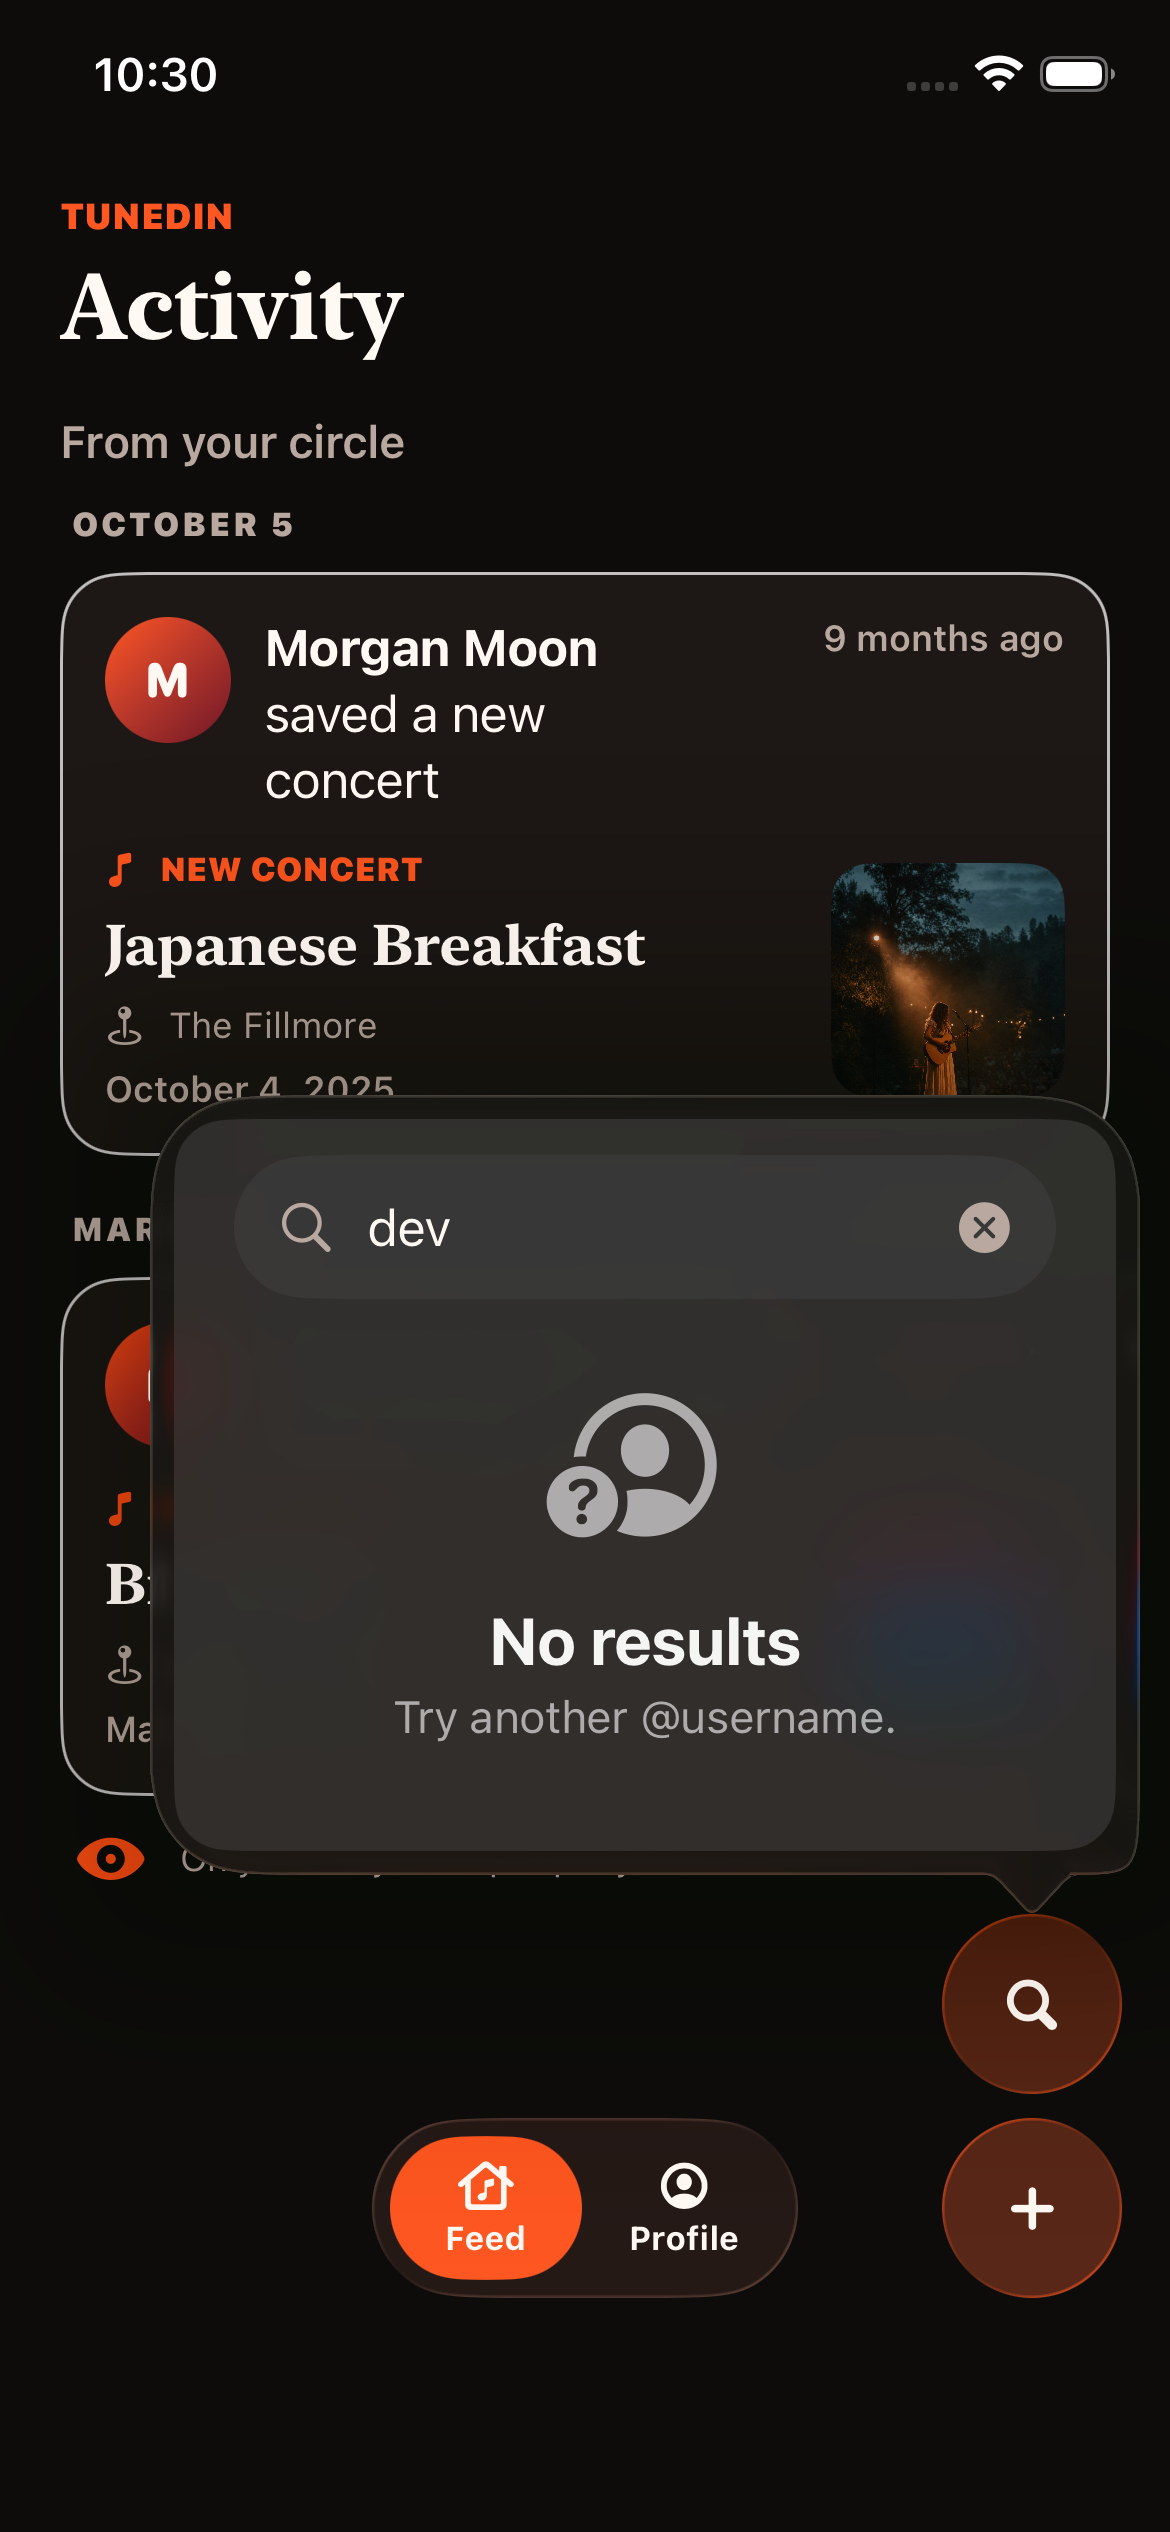
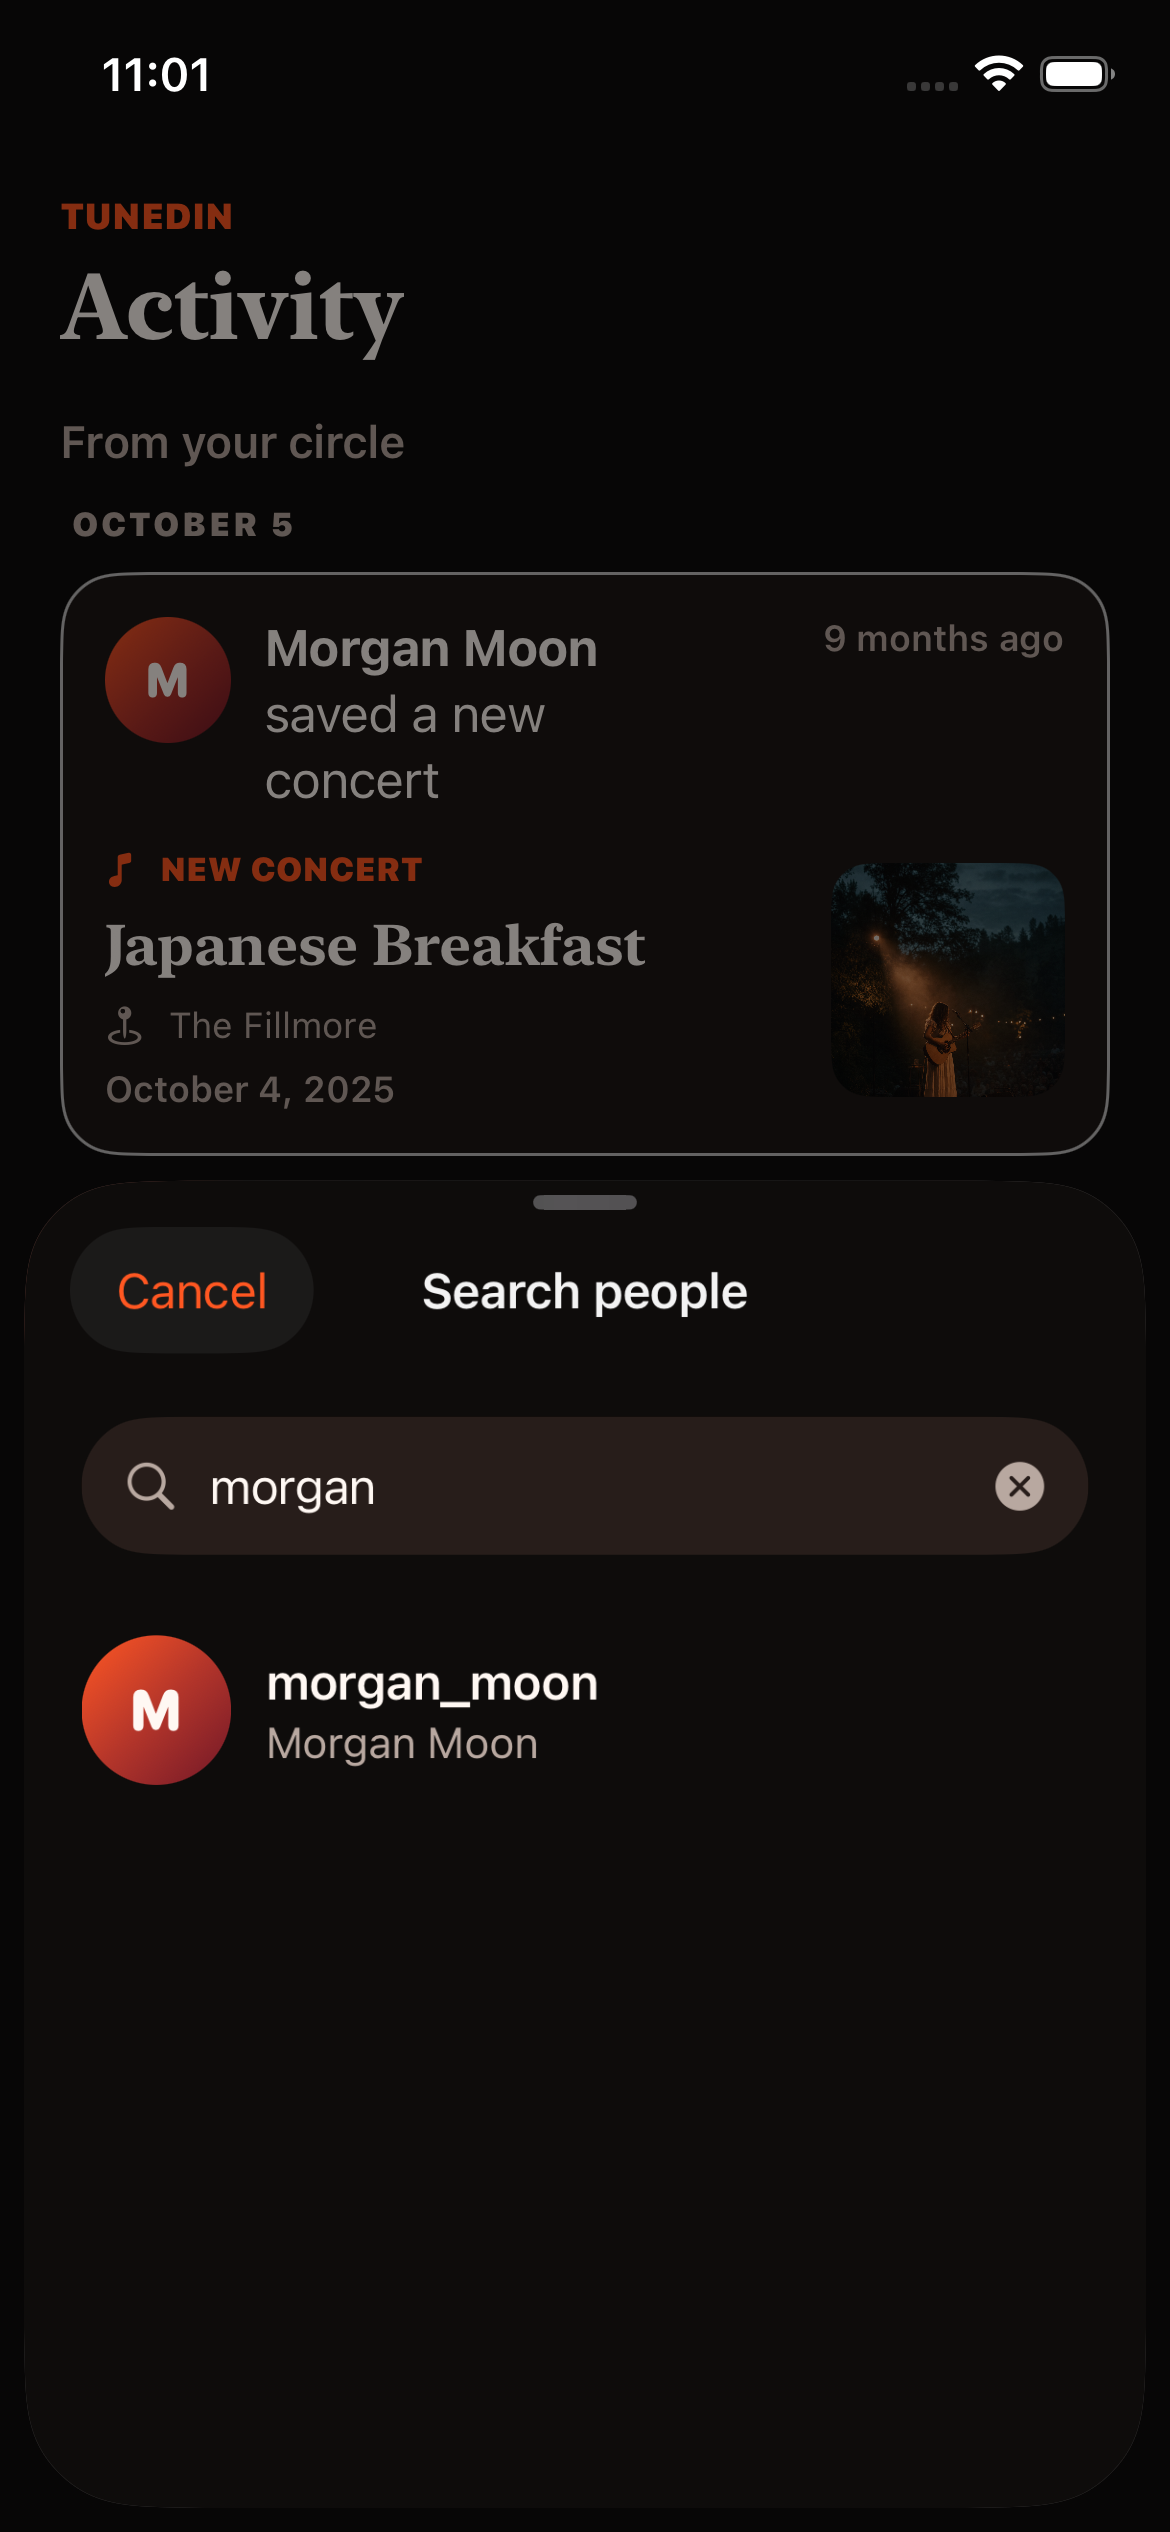
Present people search in a drawer

diff --git a/ios/tunedIn/Sources/Features/Profile/ProfileTabView.swift b/ios/tunedIn/Sources/Features/Profile/ProfileTabView.swift
@@ -25,74 +25,57 @@ struct MainTabView: View {
   @StateObject private var concertFloatingControls = ConcertFloatingControls()
 
   var body: some View {
-    GeometryReader { proxy in
-      ZStack {
-        selectedContent
-          .frame(maxWidth: .infinity, maxHeight: .infinity)
-          .environmentObject(concertFloatingControls)
-          .safeAreaInset(edge: .bottom, spacing: 0) {
-            TunedInPersistentControlRegion {
-              bottomControls
-                .padding(.horizontal, TunedInDesign.bottomControlHorizontalInset)
-                .padding(.top, 8)
-                .padding(.bottom, TunedInDesign.bottomControlInset)
-            }
-          }
-
-        Color.clear
-          .frame(width: 1, height: 1)
-          .popover(
-            isPresented: $isPresentingPeopleSearch,
-            attachmentAnchor: .point(.center),
-            arrowEdge: .bottom
-          ) {
-            peopleSearchPopover
-          }
-          .position(
-            x: proxy.size.width - (TunedInDesign.bottomControlHorizontalInset + 30),
-            y: proxy.size.height - (TunedInDesign.bottomControlInset + 128)
-          )
-      }
-    }
-    .tunedInEdgeSwipeBack(
-      isEnabled: concertFloatingControls.navigationContext != .none
-        && !concertFloatingControls.isInteractionLocked
-    ) {
-      concertFloatingControls.back(or: { activateTab(.profile) })
-    }
-    .fullScreenCover(
-      isPresented: $isPresentingConcertCreation,
-      onDismiss: { archiveRefreshToken += 1 },
-      content: { ConcertCreationView(concertRepository: concertRepository) }
-    )
-    .fullScreenCover(item: $presentedSearchedProfile) { searchedProfile in
-      NavigationStack {
-        PersonProfileView(
-          profile: searchedProfile,
-          currentUserID: profile.id,
-          currentUsername: profile.username ?? "",
-          socialRepository: socialRepository,
-          concertRepository: concertRepository,
-          onDismiss: { presentedSearchedProfile = nil }
-        )
-      }
+    selectedContent
+      .frame(maxWidth: .infinity, maxHeight: .infinity)
       .environmentObject(concertFloatingControls)
-      .tunedInKeyboardManaged()
-    }
-    .onChange(of: isPresentingPeopleSearch) { _, isPresented in
-      guard !isPresented, let pendingSearchedProfile else { return }
-      self.pendingSearchedProfile = nil
-      presentedSearchedProfile = pendingSearchedProfile
-    }
-    .onChange(of: concertFloatingControls.isShowingEditMenu) { _, isShowingEditMenu in
-      if !isShowingEditMenu {
-        isPresentingConcertEditMenu = false
+      .safeAreaInset(edge: .bottom, spacing: 0) {
+        TunedInPersistentControlRegion {
+          bottomControls
+            .padding(.horizontal, TunedInDesign.bottomControlHorizontalInset)
+            .padding(.top, 8)
+            .padding(.bottom, TunedInDesign.bottomControlInset)
+        }
       }
-    }
-    .tint(TunedInDesign.accent)
-    .task {
-      session.telemetry.captureAppBecameUsable(destination: "main_tabs")
-    }
+      .tunedInEdgeSwipeBack(
+        isEnabled: concertFloatingControls.navigationContext != .none
+          && !concertFloatingControls.isInteractionLocked
+      ) {
+        concertFloatingControls.back(or: { activateTab(.profile) })
+      }
+      .fullScreenCover(
+        isPresented: $isPresentingConcertCreation,
+        onDismiss: { archiveRefreshToken += 1 },
+        content: { ConcertCreationView(concertRepository: concertRepository) }
+      )
+      .sheet(
+        isPresented: $isPresentingPeopleSearch,
+        onDismiss: presentPendingSearchedProfile
+      ) {
+        peopleSearchDrawer
+      }
+      .fullScreenCover(item: $presentedSearchedProfile) { searchedProfile in
+        NavigationStack {
+          PersonProfileView(
+            profile: searchedProfile,
+            currentUserID: profile.id,
+            currentUsername: profile.username ?? "",
+            socialRepository: socialRepository,
+            concertRepository: concertRepository,
+            onDismiss: { presentedSearchedProfile = nil }
+          )
+        }
+        .environmentObject(concertFloatingControls)
+        .tunedInKeyboardManaged()
+      }
+      .onChange(of: concertFloatingControls.isShowingEditMenu) { _, isShowingEditMenu in
+        if !isShowingEditMenu {
+          isPresentingConcertEditMenu = false
+        }
+      }
+      .tint(TunedInDesign.accent)
+      .task {
+        session.telemetry.captureAppBecameUsable(destination: "main_tabs")
+      }
   }
 
   private var bottomControls: some View {
@@ -144,24 +127,30 @@ struct MainTabView: View {
     .animation(.smooth(duration: 0.28, extraBounce: 0), value: concertFloatingControls.navigationContext)
   }
 
-  private var peopleSearchPopover: some View {
+  private var peopleSearchDrawer: some View {
     NavigationStack {
       FriendSearchView(
         currentUserID: profile.id,
         currentUsername: profile.username ?? "",
         socialRepository: socialRepository,
         concertRepository: concertRepository,
-        presentation: .popover,
+        presentation: .drawer,
         onSelectProfile: { searchedProfile in
           pendingSearchedProfile = searchedProfile
           isPresentingPeopleSearch = false
         }
       )
     }
+    .environmentObject(concertFloatingControls)
     .tunedInKeyboardManaged()
-    .frame(width: 330, height: 260)
-    .presentationCompactAdaptation(.popover)
-    .presentationBackground(.clear)
+    .presentationDetents([.medium, .large])
+    .presentationDragIndicator(.visible)
+  }
+
+  private func presentPendingSearchedProfile() {
+    guard let pendingSearchedProfile else { return }
+    self.pendingSearchedProfile = nil
+    presentedSearchedProfile = pendingSearchedProfile
   }
 
   @ViewBuilder

diff --git a/ios/tunedIn/Sources/Features/Profile/PeopleHubView.swift b/ios/tunedIn/Sources/Features/Profile/PeopleHubView.swift
@@ -233,7 +233,7 @@ struct FriendsListView: View {
 struct FriendSearchView: View {
   enum Presentation: Equatable {
     case page
-    case popover
+    case drawer
   }
 
   let currentUserID: UUID
@@ -274,23 +274,21 @@ struct FriendSearchView: View {
   var body: some View {
     @Bindable var model = model
 
-    Group {
-      if presentation == .page {
-        ZStack {
-          TunedInDesign.pageBackground
-            .ignoresSafeArea()
-          searchContent
+    ZStack {
+      TunedInDesign.pageBackground
+        .ignoresSafeArea()
+      searchContent
+    }
+    .navigationTitle(presentation == .page ? "Search" : "Search people")
+    .navigationBarTitleDisplayMode(.inline)
+    .navigationBarBackButtonHidden()
+    .toolbar {
+      if presentation == .drawer {
+        ToolbarItem(placement: .cancellationAction) {
+          Button("Cancel") { dismiss() }
         }
-      } else {
-        TunedInGlassPopover {
-          searchContent
-        }
-        .padding(8)
       }
     }
-    .navigationTitle(presentation == .page ? "Search" : "")
-    .navigationBarTitleDisplayMode(.inline)
-    .navigationBarBackButtonHidden(presentation == .page)
     .task { model.telemetry = telemetry }
     .task(id: model.query) {
       do {
@@ -318,8 +316,7 @@ struct FriendSearchView: View {
       VStack(alignment: .leading, spacing: 12) {
         TunedInGlassSearchField(
           text: $model.query,
-          prompt: "Search @username",
-          style: presentation == .popover ? .neutralPopover : .standard
+          prompt: "Search @username"
         )
 
         if model.query.isEmpty {
